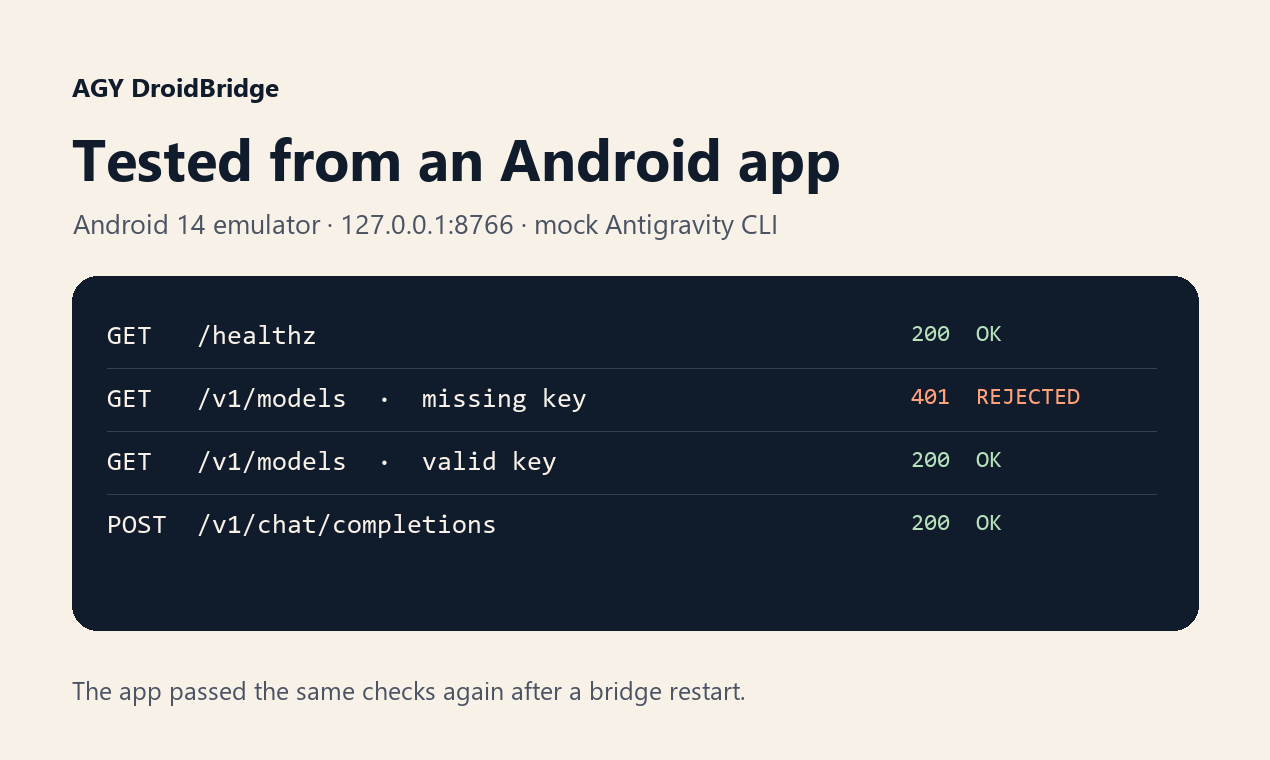
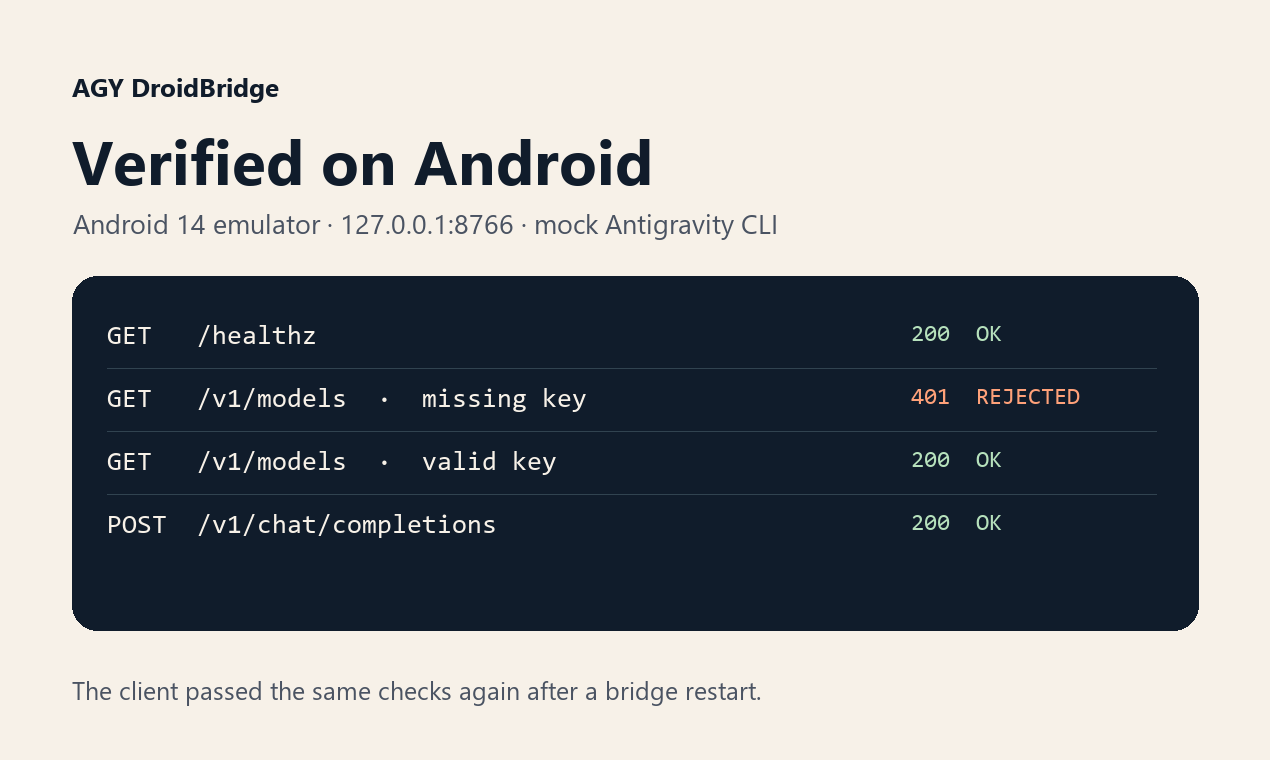
Position DroidBridge for BYOK apps and workflows

Changed region(s): [[0.0614, 0.1816, 0.6756, 0.2724], [0.0921, 0.8776, 0.5835, 0.9382]]

diff --git a/README.md b/README.md
@@ -1,14 +1,16 @@
 # AGY DroidBridge
 
-![AGY DroidBridge connects an Android chat app to Antigravity running in Termux](docs/media/overview.png)
+![AGY DroidBridge connects BYOK apps and tools to Antigravity running in Termux](docs/media/overview.png)
 
-**Use the Antigravity CLI from the chat app on your Android phone.**
+**Use your Antigravity plan in BYOK apps and tools.**
 
-AGY DroidBridge is a small Rust server that runs in Termux. Point an OpenAI-compatible chat app at `http://127.0.0.1:8766/v1` and the bridge passes its text requests to `agy`. The Antigravity CLI handles Google sign-in and generates the replies.
+When a tool asks you to bring your own key (BYOK), give it DroidBridge's local URL and the key created during setup. DroidBridge runs in Termux on Android and sends text requests to `agy`. The Antigravity CLI handles Google sign-in and model usage.
 
-## Why I built it
+## Use the allowance you already have
 
-Antigravity already runs in a Termux terminal. I wanted a way to use the same session from an Android chat app. I built the bridge in Rust so the server can run as one native executable on the phone.
+DroidBridge uses your signed-in account's existing Antigravity allowance. For requests that fit within that allowance, you can skip a separate metered API bill. A paid Google AI plan can also work out cheaper if its price is below your usual API spend and its included usage covers your workload. Models, quotas, and any credit overages depend on your account. [Antigravity plans and overages](https://antigravity.google/docs/plans)
+
+**Already claimed Google AI Pro through Jio?** Sign in to Antigravity with the Google account you used to redeem it. Jio says its offer is closed to new claims. Eligible users who already redeemed it can retain up to 18 months under the offer terms. Google lists different Antigravity limits for promotional and paid plans. [Jio offer terms](https://www.jio.com/jcms/en-in/jio-google-gemini-terms-and-conditions/) · [Antigravity plan limits](https://antigravity.google/docs/plans#baseline-quota)
 
 ## Get started
 
@@ -28,26 +30,20 @@ The installer builds the server and creates your private API key. Allow a few mi
 ./agy-droidbridge start
 ```
 
-The running server reports its URL. The key is stored in the file listed below.
+## Connect a BYOK client
 
-Open the chat app on **the same phone** and add an OpenAI-compatible provider.
+Use an app, script, or tool that accepts **both a custom base URL and an API key**. Requests need to come directly from the same Android device. Select the provider format the client supports.
 
-| App setting | Enter this |
-| --- | --- |
-| API type | Chat Completions |
-| Base URL | `http://127.0.0.1:8766/v1` |
-| API key | The contents of `~/.local/share/agy-droidbridge/api-key` |
-| Model | If the app asks for one, run `./agy-droidbridge models` and pick an ID from the refreshed list. |
+| Provider format | Custom base URL | Text API |
+| --- | --- | --- |
+| OpenAI-compatible | `http://127.0.0.1:8766/v1` | Chat Completions and model listing |
+| Anthropic-compatible | `http://127.0.0.1:8766` | Messages |
+
+For the key or token field, use the contents of `~/.local/share/agy-droidbridge/api-key`. That key authenticates the client to DroidBridge. Your Google credentials stay with the Antigravity CLI. If the tool asks for a model, run `./agy-droidbridge models` and pick an ID from the refreshed list.
 
 `./agy-droidbridge status` checks the running server. Use `./agy-droidbridge stop`, `start`, or `restart` to manage it. See the [setup guide](docs/setup.md) for a first request with curl, model refresh, and troubleshooting.
 
-## What you can do
-
-- Use OpenAI-compatible text chat and model listing from a native Android client.
-- Use the Anthropic Messages endpoint for text with an Anthropic-compatible client.
-- Keep requests on localhost between the app and the bridge. The Antigravity CLI uses its normal connection to Google for model requests.
-
-The OpenAI API can return buffered streaming chunks after generation completes. Images, tool calls, and the OpenAI Responses API are outside the current interface.
+Use a text workflow that calls one of the supported endpoints. OpenAI streaming clients receive buffered chunks after generation completes.
 
 ## What has been tested
 

diff --git a/docs/launch.md b/docs/launch.md
@@ -2,11 +2,13 @@
 
 ## LinkedIn draft
 
-I built AGY DroidBridge because I wanted an Android chat app to use the Antigravity CLI I already had in Termux.
+I built AGY DroidBridge for apps and tools that ask you to bring your own API key.
 
-The bridge is a small Rust server on the phone. Point a chat app at localhost and it forwards text to `agy`. Antigravity still handles Google sign-in and generates the replies.
+If your tool lets you set a custom endpoint, give it the DroidBridge URL and local key. The bridge runs in Termux on Android and sends text requests through the Antigravity CLI you already signed into.
 
-I tested the API with the OpenAI SDK and checked that an Android emulator app could connect before and after a restart. I'm looking for feedback from people who can try it on an ARM64 Termux phone.
+That gives those tools a way to use your existing Antigravity allowance. A paid plan can be cheaper than a separate per-token API for regular use if its included usage covers your workload. If you already redeemed Google AI Pro through Jio, use that same Google account. Jio's offer ran for up to 18 months and has closed to new claims. [Jio offer terms](https://www.jio.com/jcms/en-in/jio-google-gemini-terms-and-conditions/) · [Antigravity plans and limits](https://antigravity.google/docs/plans)
+
+I tested the API with the OpenAI SDK and verified localhost access from an Android emulator app before and after a restart. If you run a compatible tool on an ARM64 Termux phone, I'd like to hear what you tried.
 
 [See the source and setup guide](https://github.com/paritoshpky5/agy-droidbridge)
 
@@ -18,17 +20,19 @@ AGY DroidBridge
 
 ### Tagline
 
-Connect Android chat apps to Antigravity in Termux
+Use your Antigravity plan in BYOK apps
 
 ### Description
 
-Use a chat app on your Android phone with the Antigravity CLI you already run in Termux. AGY DroidBridge runs a small Rust server on localhost and exposes text chat through an OpenAI-compatible API. The CLI manages Google sign-in and model requests. Install from one repository on ARM64 Android.
+Give BYOK apps, scripts, and tools a local URL and key that use your existing Antigravity allowance. AGY DroidBridge runs in Termux on ARM64 Android and supports OpenAI Chat Completions and Anthropic Messages for text. Clients need a custom endpoint and must send requests from the same phone.
 
 **First comment**
 
-Hey, I'm Paritosh. I built this because I wanted to use Antigravity from a chat app on my phone when I already had it set up in Termux. I kept the interface small: install the bridge, copy the localhost URL and key into the app, and send a message. The app uses a familiar chat API and Antigravity handles the model call.
+Hey, I'm Paritosh. I kept seeing API key fields in tools I wanted to try while I already had Antigravity set up in Termux. I built DroidBridge so a compatible tool can use that allowance. Install it, copy the localhost URL and key into the tool, and send a text request. Antigravity still handles sign-in and the model call.
 
-The API and Android emulator checks are in the GitHub repo. If you try it on a physical phone, I'd like to hear which chat app you used and where setup was clear or confusing.
+Existing Jio Google AI Pro redemptions can be used with the Google account that claimed the offer, subject to that account's Antigravity access and limits. Paid plans can also be good value when their included usage covers what you'd normally pay for through a metered API.
+
+The API and Android emulator checks are in the GitHub repo. If you try it on a phone, which BYOK tool did you connect and how did setup go?
 
 **Media and link**
 

diff --git a/docs/setup.md b/docs/setup.md
@@ -6,6 +6,12 @@ Start with the [quick start](../README.md#get-started). The bridge needs a signe
 
 Antigravity only loads the DroidBridge text agent from an approved workspace. When setup reports the agent is missing, run `./agy-droidbridge trust`, approve its dedicated folder in Antigravity, exit Antigravity, and run `./agy-droidbridge start`. Approve the folder printed by the CLI. The bridge uses that same workspace after restart.
 
+## Set the URL and key in your tool
+
+Your BYOK client needs a custom endpoint and a key setting, and it must make requests from the phone running Termux. For OpenAI-compatible clients, use `http://127.0.0.1:8766/v1` and select Chat Completions. For a client that uses the Anthropic Messages API, use `http://127.0.0.1:8766`. If a client asks for a full request URL, append `/chat/completions` to the OpenAI base URL or `/v1/messages` to the Anthropic base URL.
+
+Use the key from `~/.local/share/agy-droidbridge/api-key` as the client's token. OpenAI-compatible requests use bearer authentication. Anthropic-compatible requests can use `x-api-key` or bearer authentication.
+
 ## Make a request from Termux
 
 ```sh
@@ -19,7 +25,7 @@ auth_header | curl -fsS -H @- -H 'Content-Type: application/json' \
   http://127.0.0.1:8766/v1/chat/completions
 ```
 
-The example chat uses the CLI's current selection when the bridge has no previously successful selection. A chat request uses your normal Antigravity allowance. For a particular model, pass an ID from `/v1/models` in the `model` field.
+The example uses the CLI's current model selection when the bridge has no previously successful selection. Requests use the signed-in Antigravity account's allowance. For a particular model, pass an ID from `/v1/models` in the `model` field.
 
 ## Refresh available models
 
@@ -33,10 +39,10 @@ Set `AGY_MODELS_FILE` to use your own plain-text list of model IDs and labels. U
 | --- | --- |
 | Setup cannot find `agy` | Run `agy --version`. For an executable outside your `PATH`, use `AGY_BIN=/path/to/agy ./agy-droidbridge install`. |
 | Antigravity has not loaded the DroidBridge text agent | Run `./agy-droidbridge trust` and complete the workspace approval before starting the bridge. |
-| The app cannot connect | Run `./agy-droidbridge status`. Check that the app is on the same device, its base URL ends in `/v1`, and it allows HTTP for localhost. |
+| The tool cannot connect | Run `./agy-droidbridge status`. Check that the tool sends requests from the phone, allows HTTP for localhost, and uses the base URL for its API format. |
 | The API returns `401` | Copy the key from the path printed by setup. OpenAI clients send it as bearer authentication. |
 | Model is unavailable | Run `agy models` to check sign-in, then run `./agy-droidbridge models` to refresh the list. |
-| The bridge exits on startup | Check `~/.local/share/agy-droidbridge/bridge.log`. If the port is in use, run `AGY_PORT=8767 ./agy-droidbridge install` and update the app URL. |
+| The bridge exits on startup | Check `~/.local/share/agy-droidbridge/bridge.log`. If the port is in use, run `AGY_PORT=8767 ./agy-droidbridge install` and update the client URL. |
 
 ## Run from an existing binary
 

diff --git a/TEST_REPORT.md b/TEST_REPORT.md
@@ -60,6 +60,6 @@ pwsh ./tests/emulator/verify.ps1 -Serial emulator-5554
 
 ## Physical phone check
 
-On an ARM64 Android phone with Termux, follow the README through installation and workspace approval. Run `./agy-droidbridge models`, then send a single chat request using the [setup guide](docs/setup.md#make-a-request-from-termux). Check that your actual chat app connects on the same device and can send a second request after `./agy-droidbridge restart`.
+On an ARM64 Android phone with Termux, follow the README through installation and workspace approval. Run `./agy-droidbridge models`, then send one text request using the [setup guide](docs/setup.md#make-a-request-from-termux). Check that your chosen BYOK client connects on the same device and can send a second request after `./agy-droidbridge restart`.
 
 Live model generation, an authenticated Google session on the phone, and physical Termux execution remain pending.

diff --git a/ARCHITECTURE.md b/ARCHITECTURE.md
@@ -1,6 +1,6 @@
 # Architecture
 
-AGY DroidBridge runs an HTTP server inside Termux. An Android chat app sends a text request to localhost. The bridge validates the request, formats the conversation as text, and starts the installed Antigravity CLI with its headless JSON output mode. Antigravity manages sign-in and sends model requests through its own connection.
+AGY DroidBridge runs an HTTP server inside Termux. A compatible app, script, or tool sends a text request to localhost using the bridge's URL and application key. The bridge validates the request, formats the messages as text, and starts the installed Antigravity CLI with its headless JSON output mode. Antigravity manages sign-in and sends model requests through its own connection.
 
 ## HTTP and model selection
 
